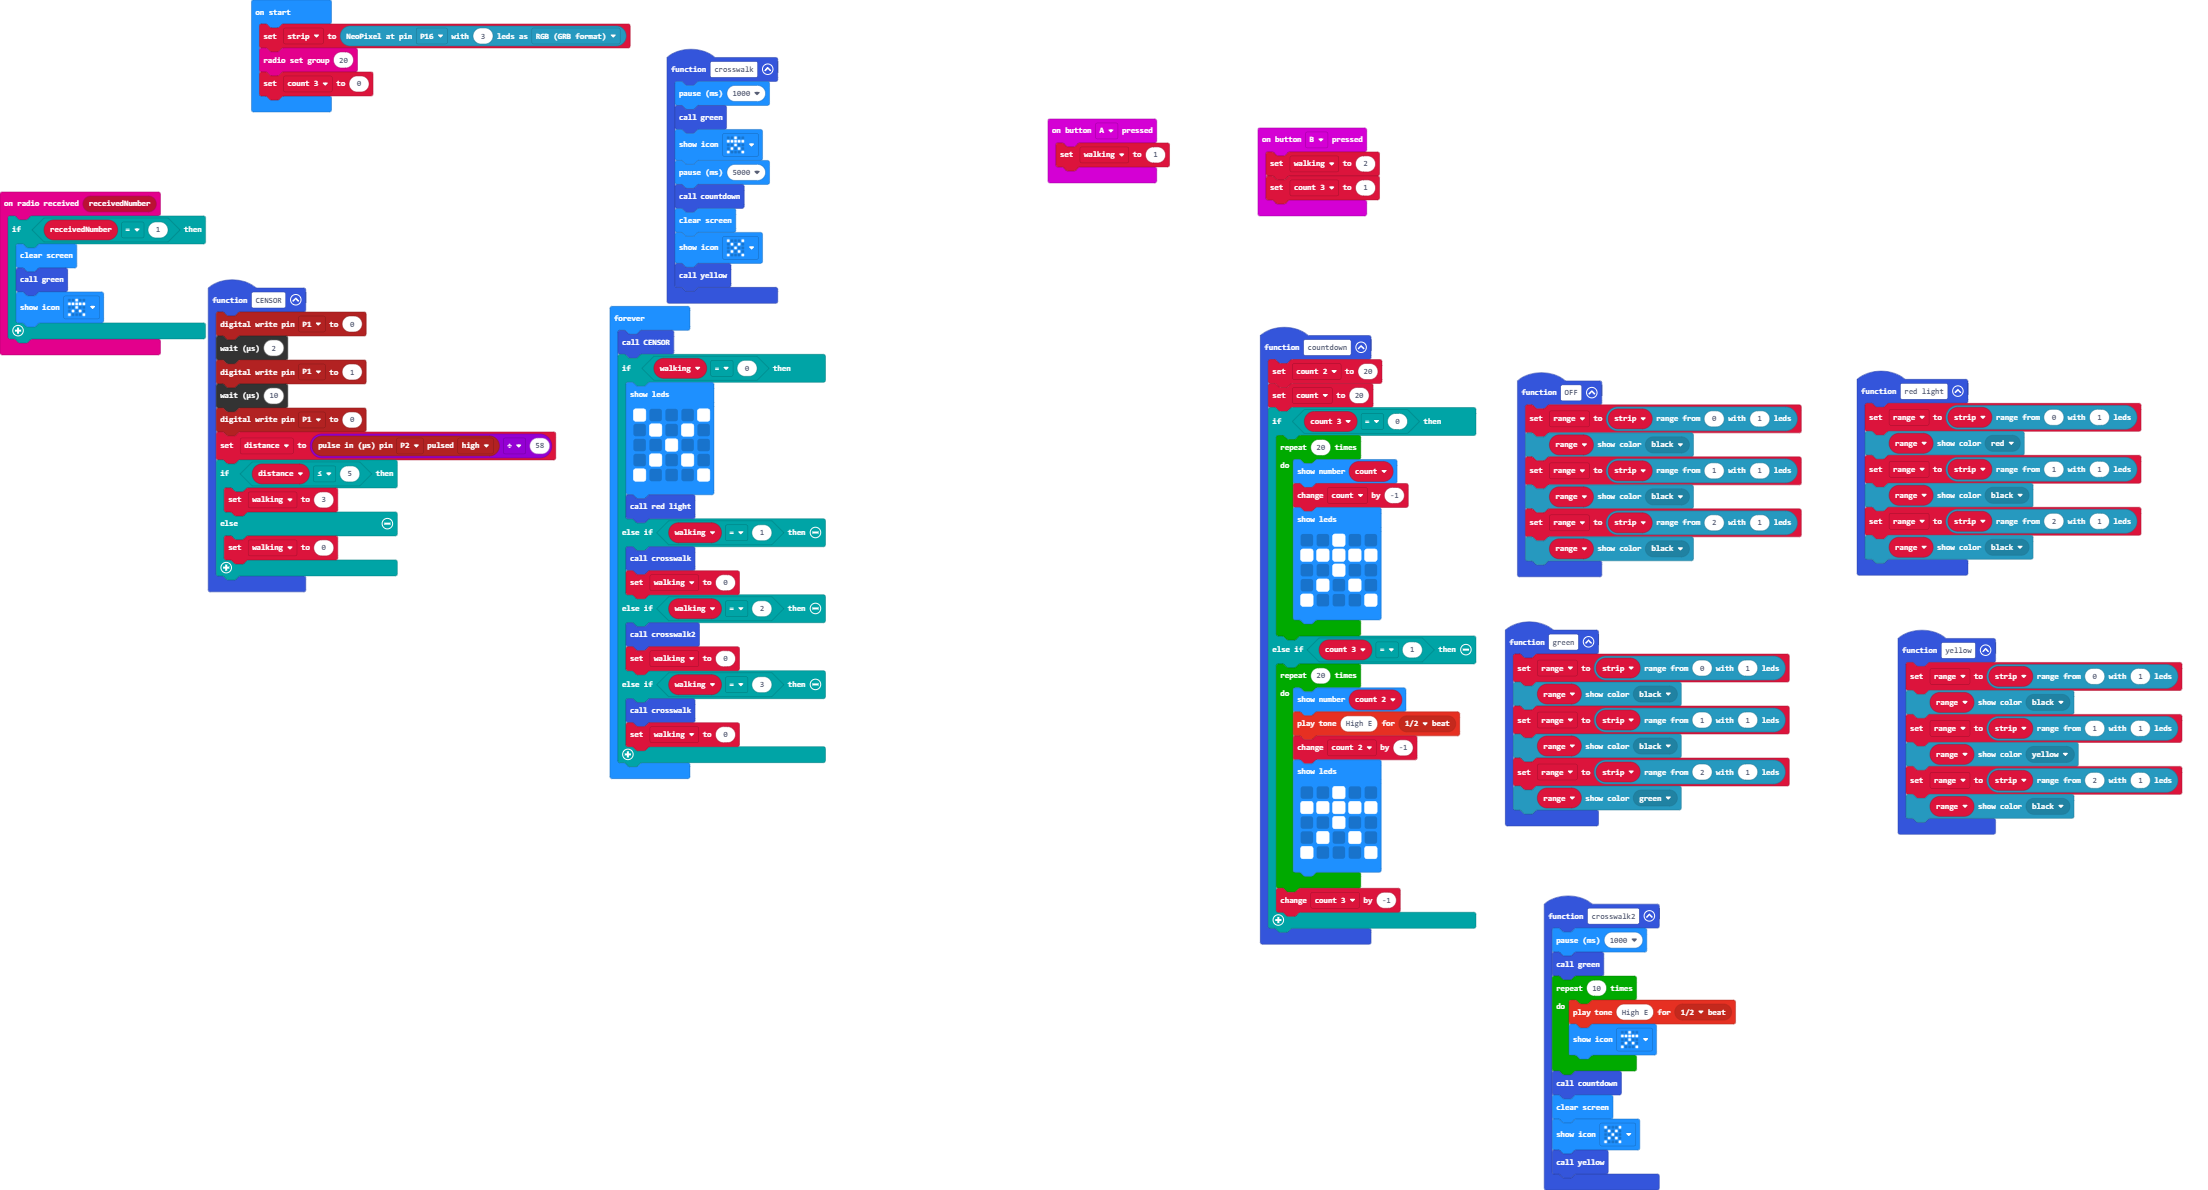
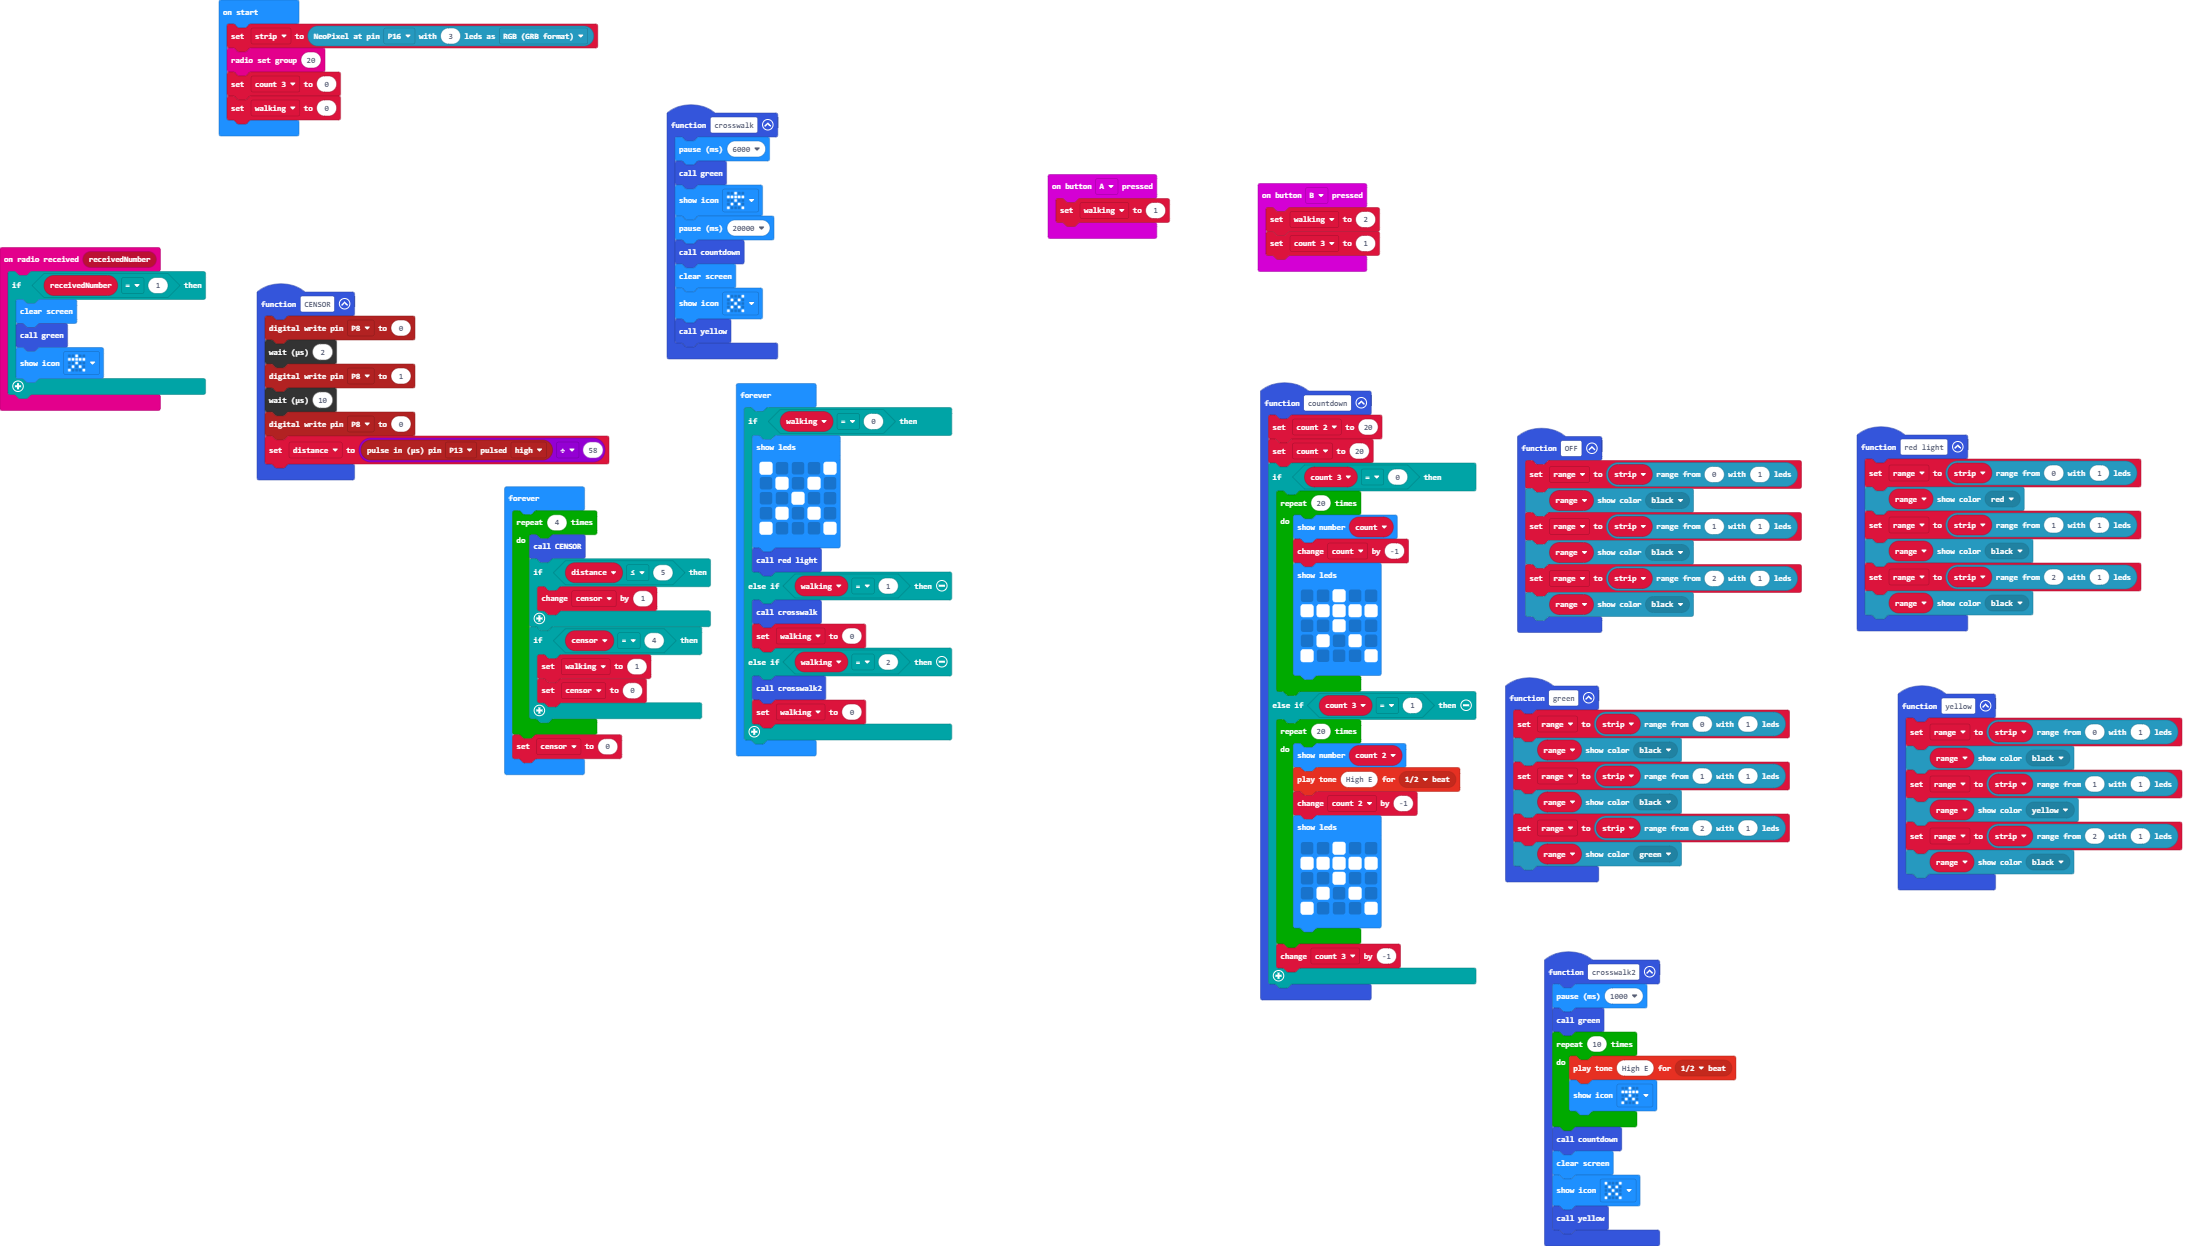
Update main.blocks, main.ts

diff --git a/main.ts b/main.ts
@@ -6,10 +6,10 @@ radio.onReceivedNumber(function (receivedNumber) {
     }
 })
 function crosswalk () {
-    basic.pause(1000)
+    basic.pause(6000)
     green()
     basic.showIcon(IconNames.StickFigure)
-    basic.pause(5000)
+    basic.pause(20000)
     countdown()
     basic.clearScreen()
     basic.showIcon(IconNames.No)
@@ -58,17 +58,12 @@ input.onButtonPressed(Button.A, function () {
     walking = 1
 })
 function CENSOR () {
-    pins.digitalWritePin(DigitalPin.P1, 0)
+    pins.digitalWritePin(DigitalPin.P8, 0)
     control.waitMicros(2)
-    pins.digitalWritePin(DigitalPin.P1, 1)
+    pins.digitalWritePin(DigitalPin.P8, 1)
     control.waitMicros(10)
-    pins.digitalWritePin(DigitalPin.P1, 0)
-    distance = pins.pulseIn(DigitalPin.P2, PulseValue.High) / 58
-    if (distance <= 5) {
-        walking = 3
-    } else {
-        walking = 0
-    }
+    pins.digitalWritePin(DigitalPin.P8, 0)
+    distance = pins.pulseIn(DigitalPin.P13, PulseValue.High) / 58
 }
 input.onButtonPressed(Button.B, function () {
     walking = 2
@@ -110,18 +105,19 @@ function red_light () {
     range = strip.range(2, 1)
     range.showColor(neopixel.colors(NeoPixelColors.Black))
 }
+let censor = 0
 let distance = 0
-let walking = 0
 let count = 0
 let count_2 = 0
 let range: neopixel.Strip = null
+let walking = 0
 let count_3 = 0
 let strip: neopixel.Strip = null
 strip = neopixel.create(DigitalPin.P16, 3, NeoPixelMode.RGB)
 radio.setGroup(20)
 count_3 = 0
+walking = 0
 basic.forever(function () {
-    CENSOR()
     if (walking == 0) {
         basic.showLeds(`
             # . . . #
@@ -137,8 +133,18 @@ basic.forever(function () {
     } else if (walking == 2) {
         crosswalk2()
         walking = 0
-    } else if (walking == 3) {
-        crosswalk()
-        walking = 0
     }
+})
+basic.forever(function () {
+    for (let index = 0; index < 4; index++) {
+        CENSOR()
+        if (distance <= 5) {
+            censor += 1
+        }
+        if (censor == 4) {
+            walking = 1
+            censor = 0
+        }
+    }
+    censor = 0
 })
